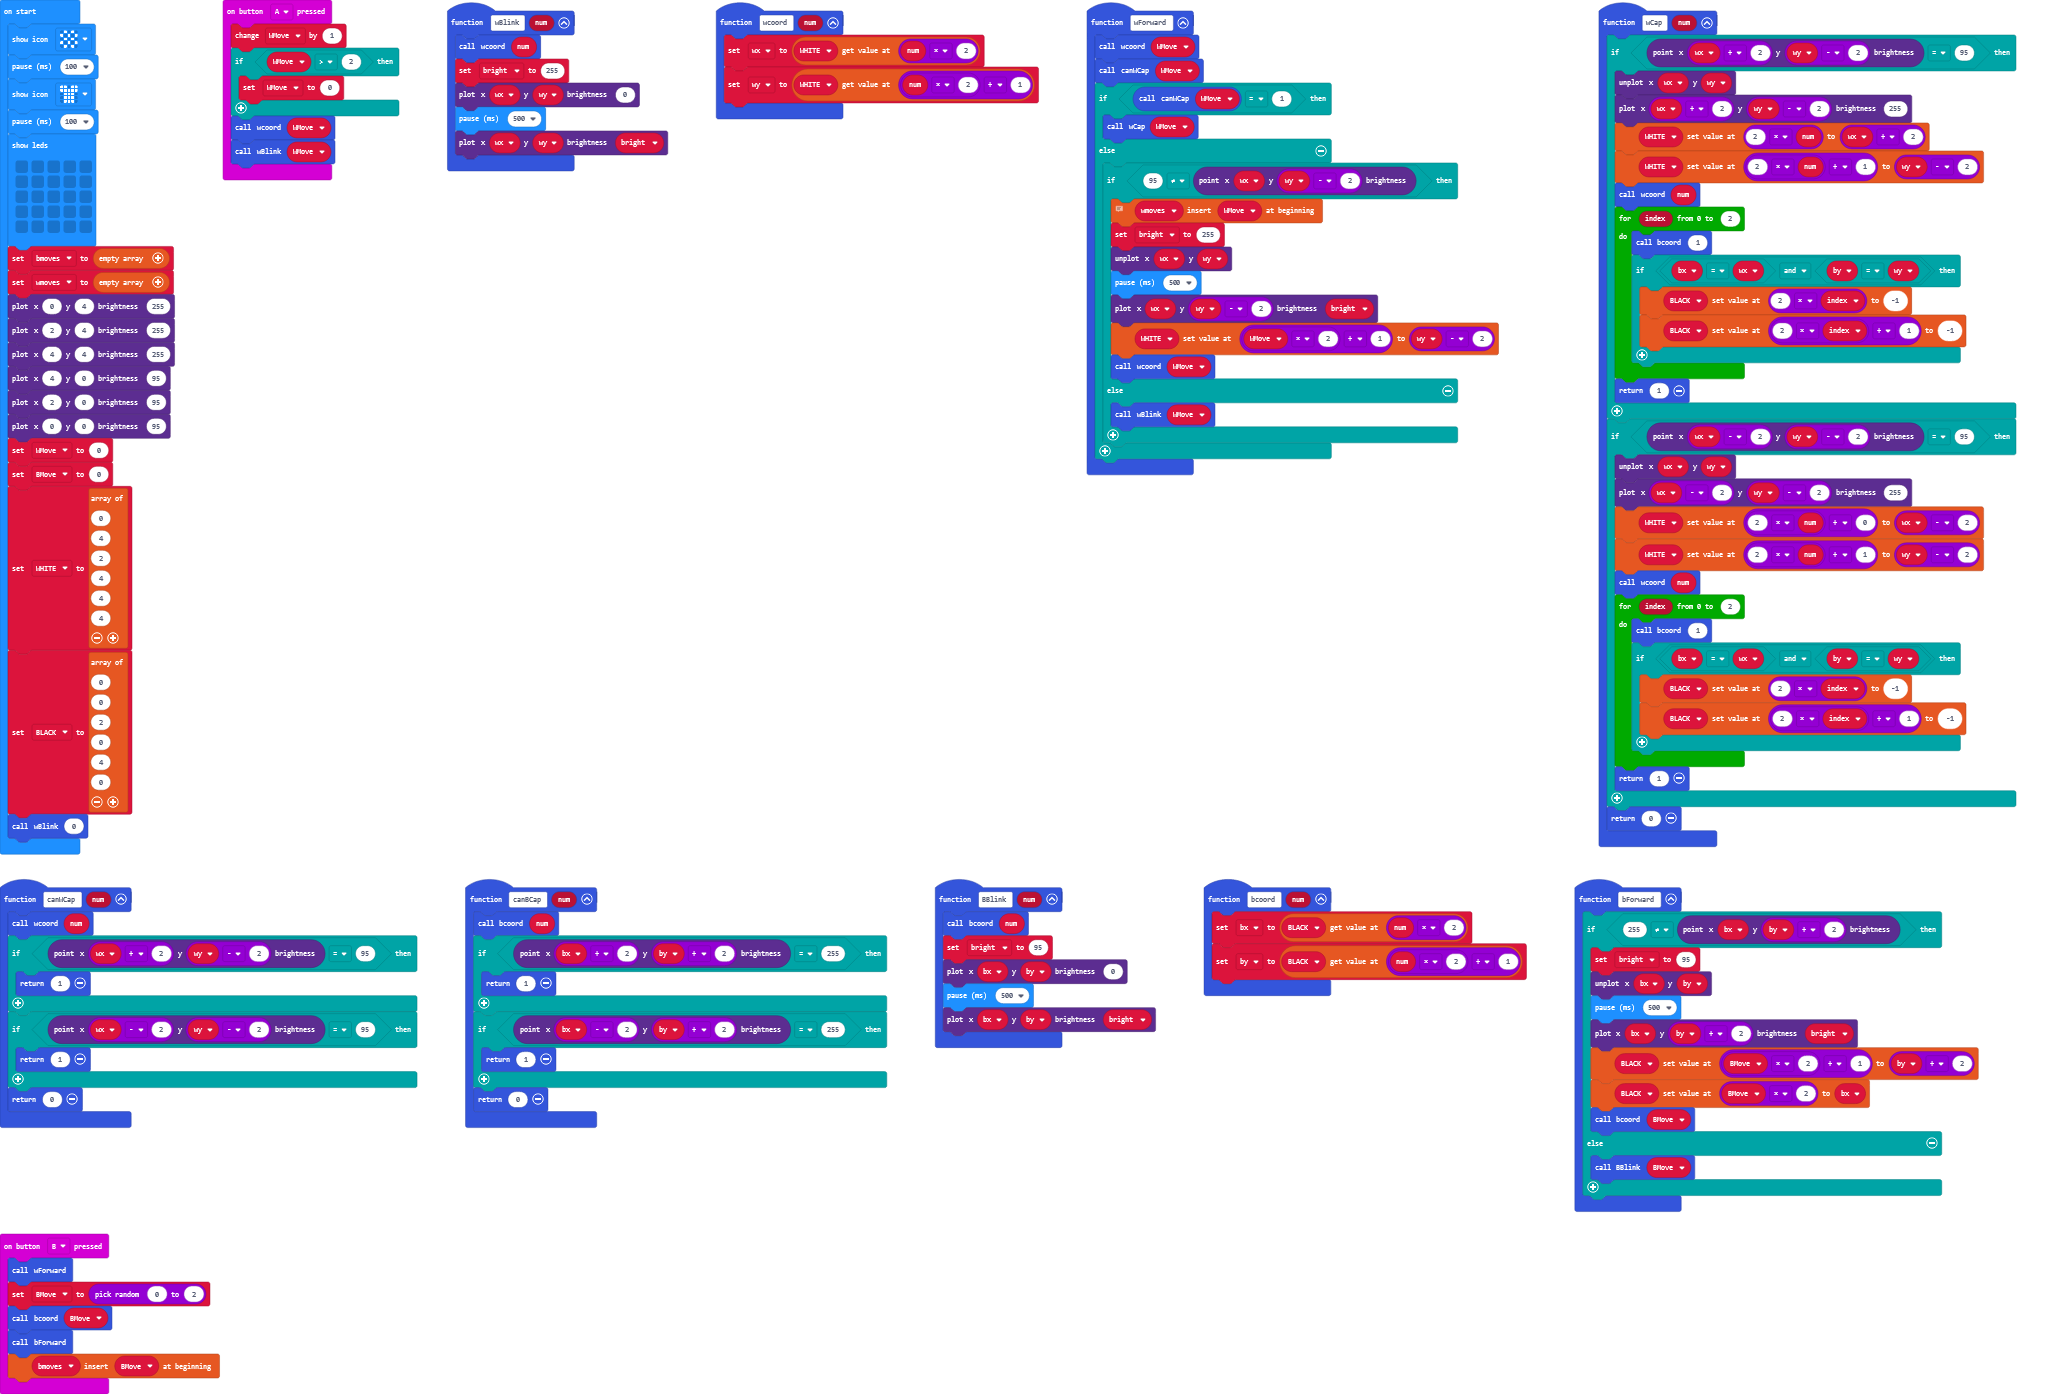
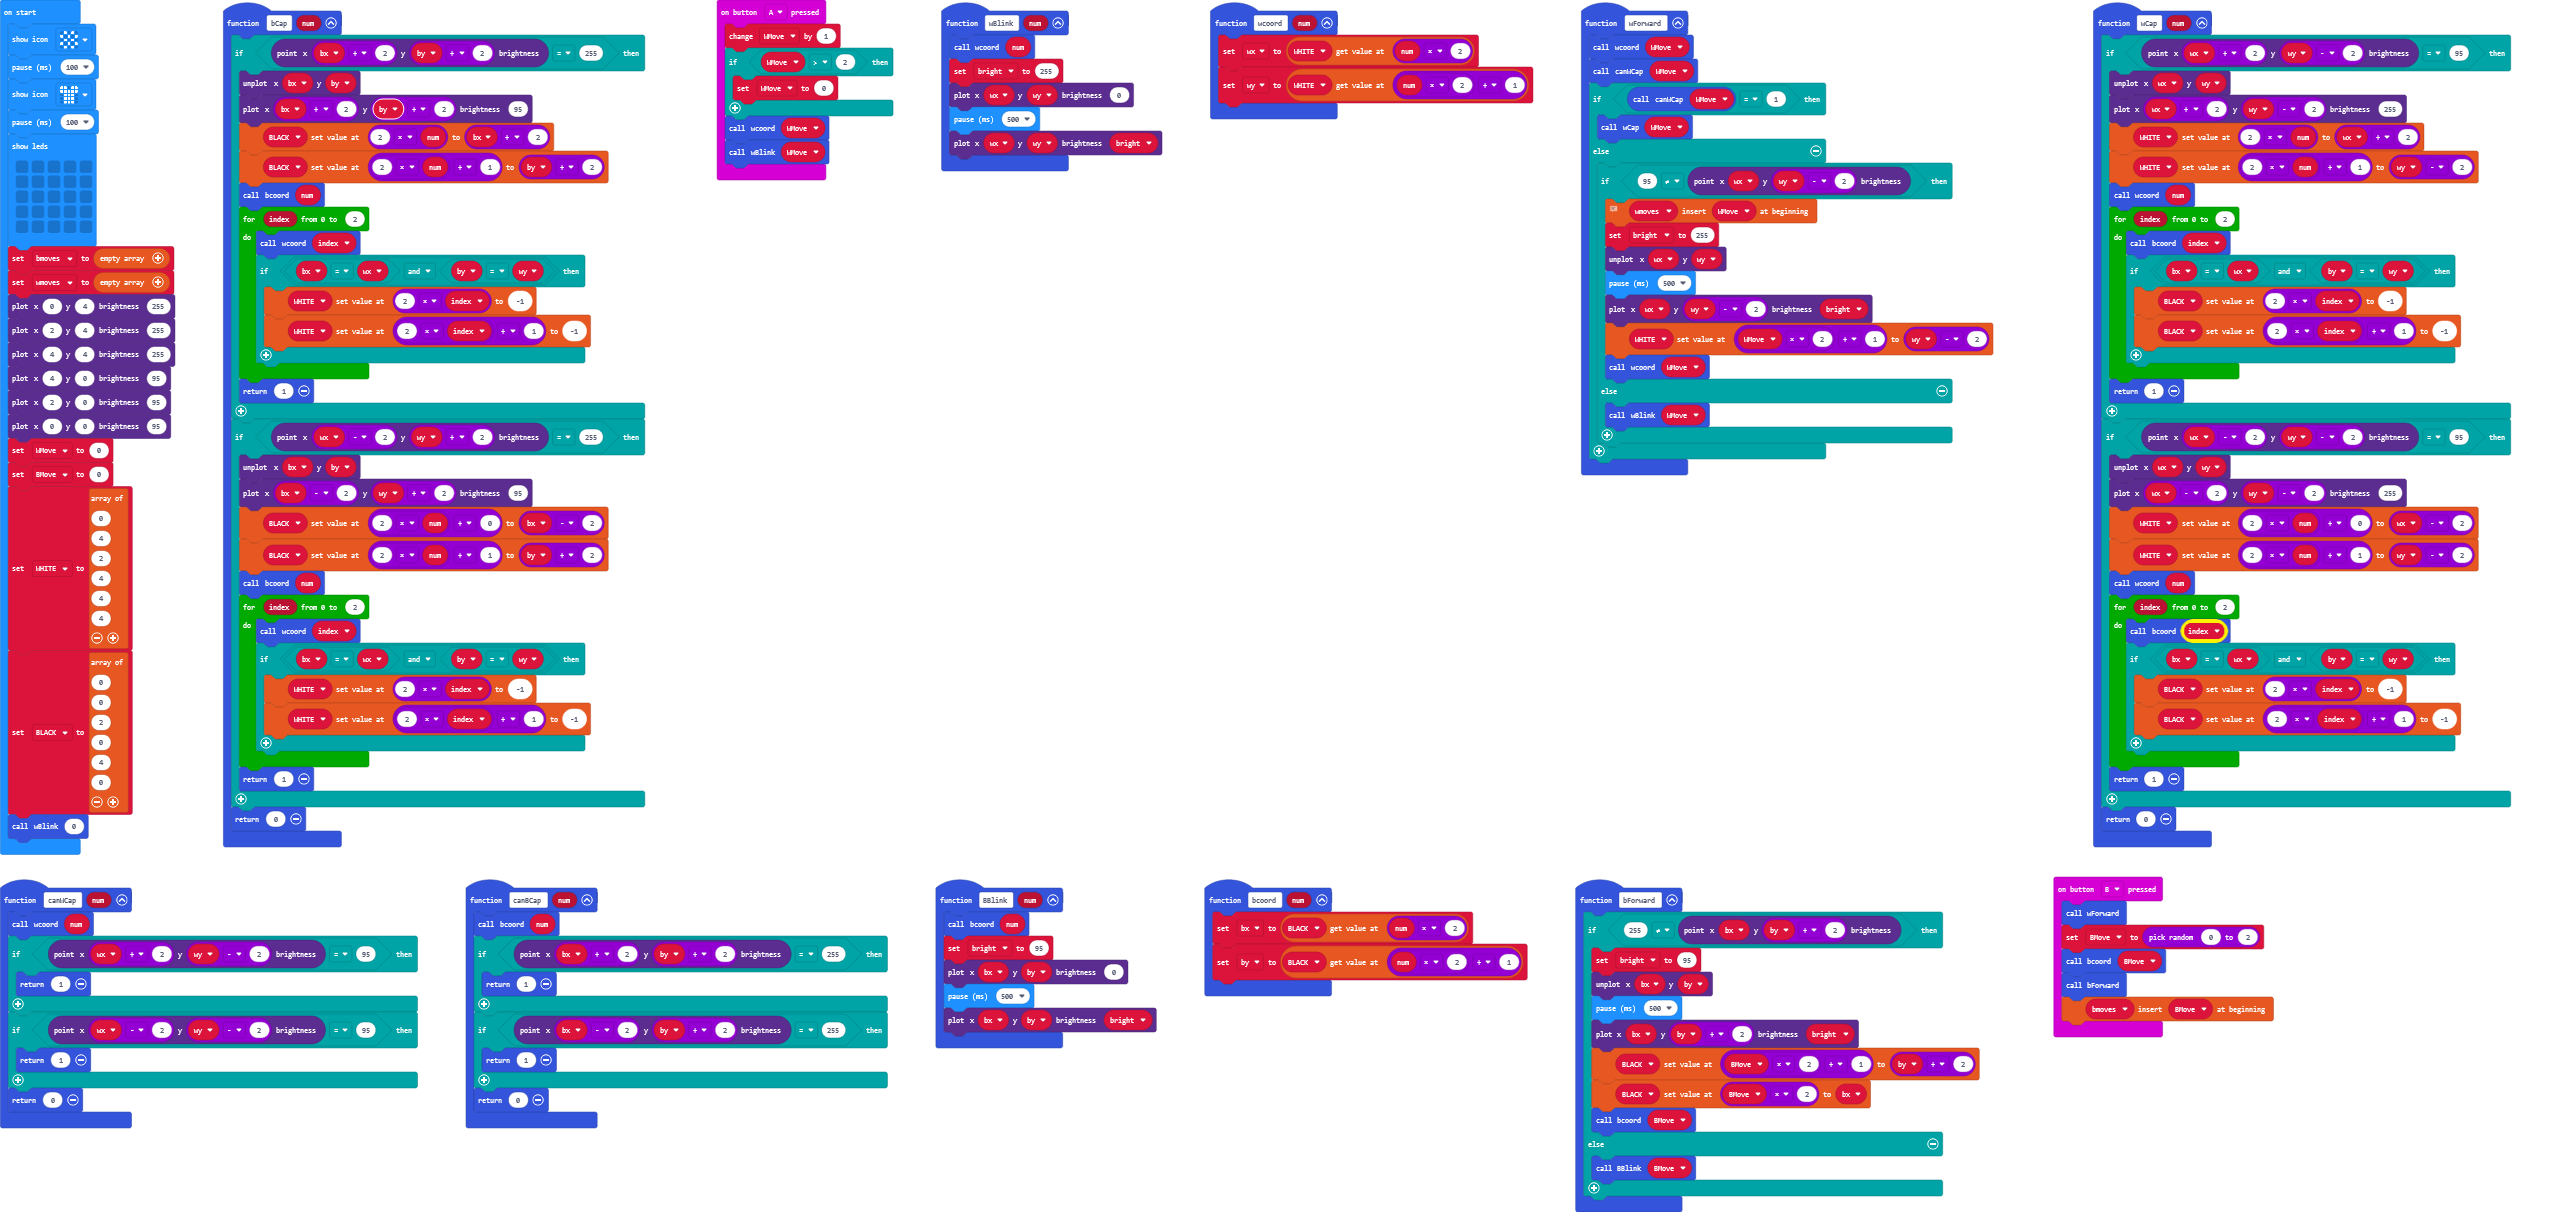
Update pxt.json, main.blocks, main.ts

diff --git a/main.ts b/main.ts
@@ -42,7 +42,7 @@ function wCap (num: number) {
         WHITE[2 * num + 1] = wy - 2
         wcoord(num)
         for (let index = 0; index <= 2; index++) {
-            bcoord(1)
+            bcoord(index)
             if (bx == wx && by == wy) {
                 BLACK[2 * index] = -1
                 BLACK[2 * index + 1] = -1
@@ -57,7 +57,7 @@ function wCap (num: number) {
         WHITE[2 * num + 1] = wy - 2
         wcoord(num)
         for (let index = 0; index <= 2; index++) {
-            bcoord(1)
+            bcoord(index)
             if (bx == wx && by == wy) {
                 BLACK[2 * index] = -1
                 BLACK[2 * index + 1] = -1
@@ -88,6 +88,39 @@ input.onButtonPressed(Button.B, function () {
     bForward()
     bmoves.unshift(BMove)
 })
+function bCap (num: number) {
+    if (led.pointBrightness(bx + 2, by + 2) == 255) {
+        led.unplot(bx, by)
+        led.plotBrightness(bx + 2, by + 2, 95)
+        BLACK[2 * num] = bx + 2
+        BLACK[2 * num + 1] = by + 2
+        bcoord(num)
+        for (let index = 0; index <= 2; index++) {
+            wcoord(index)
+            if (bx == wx && by == wy) {
+                WHITE[2 * index] = -1
+                WHITE[2 * index + 1] = -1
+            }
+        }
+        return 1
+    }
+    if (led.pointBrightness(wx - 2, wy + 2) == 255) {
+        led.unplot(bx, by)
+        led.plotBrightness(bx - 2, wy + 2, 95)
+        BLACK[2 * num + 0] = bx - 2
+        BLACK[2 * num + 1] = by + 2
+        bcoord(num)
+        for (let index = 0; index <= 2; index++) {
+            wcoord(index)
+            if (bx == wx && by == wy) {
+                WHITE[2 * index] = -1
+                WHITE[2 * index + 1] = -1
+            }
+        }
+        return 1
+    }
+    return 0
+}
 function canBCap (num: number) {
     bcoord(num)
     if (led.pointBrightness(bx + 2, by + 2) == 255) {
